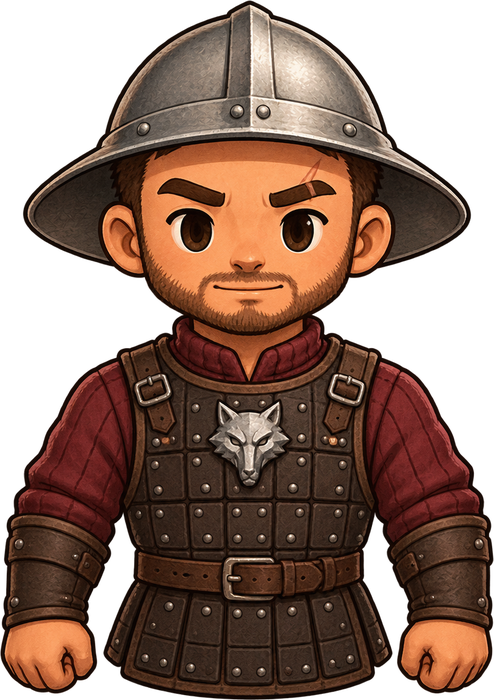
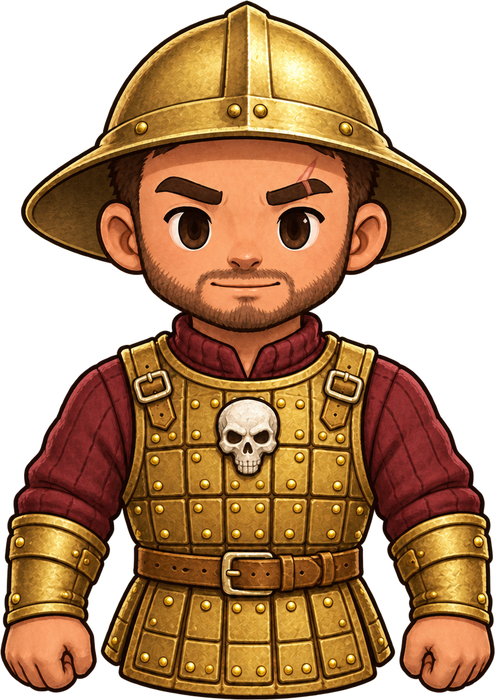
Gold sellswords with their own pike and shield, and the crossing as a sailing scene
- The Free Company's sellswords wear gold armour with a skull badge; the pike with
  its blue blade and the gold skull shield are their own pictures, held in their
  hands, and a man at his post drills a thrust now and then (mercStrike asks for
  one). The City's company is the two looks half and half.
- Sailing with Blackbeard is a 7 to 15 second scene: the Black Tide crosses the
  screen from left to right with Blackbeard and the hero behind her rail, while
  every picture of the port ahead is loaded and decoded.
- A fault part-way through a frame no longer leaves the canvas scaled for every
  frame after it.
- The City's jail: the jailer stands before his desk, painted barrels; the Royal
  Banners fly the City's crimson with the crown riding the waves.

diff --git a/game.js b/game.js
@@ -205,11 +205,12 @@ const NPC_SKINS={male:'npc_male',female:'npc_female',sebbe:'npc_sebbe',guard:'np
  mercenary:'npc_mercenary',mercenary_b:'npc_mercenary_b',merc_recruiter:'npc_merc_recruiter',
  ruler_sigvald:'npc_ruler_sigvald',ruler_roderic:'npc_ruler_roderic',ruler_aldric:'npc_ruler_aldric',ruler_isaura:'npc_ruler_isaura'};
 const npcSkinCache={};
+const NPC_ART_V=2;   /* bump when a townsfolk picture is redrawn under the same name (the sellswords went gold on 2026-09-25) */
 function npcSkinImage(skin){
  if(!skin)return null;
  if(skin in npcSkinCache)return npcSkinCache[skin];
  let im=null;
- if(NPC_SKINS[skin]){im=new Image();im.src='assets/characters/npc/'+NPC_SKINS[skin]+'.png';}
+ if(NPC_SKINS[skin]){im=new Image();im.src='assets/characters/npc/'+NPC_SKINS[skin]+'.png?v='+NPC_ART_V;}
  else{const m=npcSkinCostume(skin);if(m)im=charSprite(m[1],m[3],m[2]==='female');}
  return npcSkinCache[skin]=im;
 }
@@ -1119,24 +1120,139 @@ function renderVoyage(){
 }
 function setSail(id){
  const d=voyageList().find(d=>d.id===id);
- if(!d||d.here||d.zone<0||!gameOn||!hero||hero.dead||TideUI.isBattling())return;
+ if(!d||d.here||d.zone<0||!gameOn||!hero||hero.dead||TideUI.isBattling()||voyage)return;
  $('voyageFx').style.display='none';
  if(mp.on)mpLeave(false);
  const at=id==='home'?HOME_PORT:TownWorld.town(id).arrival;
- expeditionSpawn={zone:d.zone,x:at.x,y:at.y};
- voyageVeil(d.name);
- goToZone(d.zone);
- stageMsg('⛵ The Black Tide makes port: '+d.name,2600);
- log('⛵ Captain Blackbeard brings the Black Tide into '+d.name+'.');
+ voyage={d,at,t0:performance.now(),load:voyagePreload(d),phase:'sail',exitT:0,arriveT:0,look:mpLook(),name:S.name||'Hero'};
+ log('⛵ Captain Blackbeard casts off for '+d.name+'.');
 }
-/* a curtain of sea over the crossing: it is up before the new port is built and lifts off it */
-function voyageVeil(name){
- let v=$('voyageVeil');
- if(!v){v=document.createElement('div');v.id='voyageVeil';v.setAttribute('aria-hidden','true');document.body.appendChild(v);}
- v.textContent='⛵ The Black Tide sails for '+name+'…';
- clearTimeout(v._lift);clearTimeout(v._gone);
- v.classList.remove('lift');v.classList.add('up');void v.offsetWidth;
- v._lift=setTimeout(()=>{v.classList.add('lift');v._gone=setTimeout(()=>v.classList.remove('up','lift'),1300);},650);
+/* ⛵ The crossing (asked for 2026-09-26): not a curtain but a short scene - the Black Tide sails across the screen from
+   left to right, Captain Blackbeard and you on her deck, over a sea that runs past, while every picture of the port you are
+   sailing for is loaded AND decoded, so a slow machine arrives to a port that is ready. It lasts 7 to 15 seconds: never less
+   than 7, longer only while pictures are still coming in, and 15 at the most. The world stands still meanwhile; the new
+   port is built behind a short dark as the ship sails off the right edge, and the dark lifts off it. */
+const VOYAGE_MIN=7,VOYAGE_MAX=15,VOYAGE_EXIT=1.6,VOYAGE_DARK=.45,VOYAGE_LIFT=.7;
+let voyage=null;
+function voyagePreload(d){
+ const ims=new Set(),skin=k=>ims.add(npcSkinImage(k));
+ if(d.id==='home'){
+  for(const im of Object.values(harborImages()))ims.add(im);
+  for(const f of HarborWorld.FOLK)skin(f[1]);
+  ['harbour_master','pirate_captain','pirate','fishwife','sailor','dockhand'].forEach(skin);
+ }else{
+  for(const im of Object.values(townImages(d.id)))ims.add(im);
+  const t=TownWorld.town(d.id)||{},skins=[...(t.stands||[]).map(s=>s.skin),...(t.folk||[]).map(f=>f[1]),'pirate_captain'];
+  skins.forEach(skin);
+  if(skins.some(k=>MERC_ARMED.has(k))){ims.add(mercPikeImg);ims.add(mercShieldImg);}
+ }
+ ims.delete(null);ims.delete(undefined);
+ const list=[...ims],state={total:list.length,done:0};
+ for(const im of list){
+  const settle=()=>{state.done++;};
+  (im.decode?im.decode():new Promise(r=>{if(im.complete)r();else{im.addEventListener('load',r,{once:true});im.addEventListener('error',r,{once:true});}})).then(settle,settle);
+ }
+ return state;
+}
+function voyageTick(now){
+ const V=voyage;if(!V)return;
+ const t=(now-V.t0)/1000;
+ if(V.phase==='sail'){
+  if(t>=VOYAGE_MAX-VOYAGE_EXIT||(t>=VOYAGE_MIN-VOYAGE_EXIT&&V.load.done>=V.load.total)){V.phase='exit';V.exitT=now;}
+ }else if(V.phase==='exit'){
+  if((now-V.exitT)/1000>=VOYAGE_EXIT){
+   expeditionSpawn={zone:V.d.zone,x:V.at.x,y:V.at.y};
+   goToZone(V.d.zone);
+   V.phase='arrive';V.arriveT=performance.now();
+   stageMsg('⛵ The Black Tide makes port: '+V.d.name,2600);
+   log('⛵ Captain Blackbeard brings the Black Tide into '+V.d.name+'.');
+  }
+ }else if((now-V.arriveT)/1000>=VOYAGE_LIFT)voyage=null;
+}
+const voyagePort=nowSec=>{   /* the ship's x over the voyage: in from off the left, then drifting on while the pictures come */
+ const V=voyage,W=VW,t=(nowSec*1000-V.t0)/1000,shipW=Math.min(960,W*.69,VH*.92);   /* about half as big again as she first was (2026-09-26), flag and all on screen */
+ const e=1-(1-Math.min(1,t/1.5))**3,cruise=Math.max(W*.30,shipW*.54)+W*.10*Math.min(1,t/VOYAGE_MAX);   /* her stern on screen once she is in */
+ let x=-shipW*.6+(cruise+shipW*.6)*e;
+ if(V.phase!=='sail'){const k=Math.min(1,(nowSec*1000-V.exitT)/1000/VOYAGE_EXIT);x+=(W+shipW*.75-x)*k*k;}
+ return {x,shipW,t};
+};
+function drawVoyage(nowMs){
+ const V=voyage,W=VW,H=VH,now=nowMs/1000,{x:sx,shipW,t}=voyagePort(now),run=t*90;   /* run: how far the sea has gone by */
+ ctx.setTransform(DPR,0,0,DPR,0,0);ctx.clearRect(0,0,W,H);
+ const horizon=H*.44,waterY=H*.87;   /* low on the screen: she is big now, and her topmasts may run off the top */
+ /* the sky, a low sun ahead, clouds going by */
+ const sky=ctx.createLinearGradient(0,0,0,horizon);sky.addColorStop(0,'#27466e');sky.addColorStop(.55,'#6f9fc4');sky.addColorStop(1,'#f0d4a2');
+ ctx.fillStyle=sky;ctx.fillRect(0,0,W,horizon+2);
+ const sun=ctx.createRadialGradient(W*.8,horizon-8,0,W*.8,horizon-8,H*.36);sun.addColorStop(0,'rgba(255,236,190,.85)');sun.addColorStop(.25,'rgba(255,214,150,.25)');sun.addColorStop(1,'rgba(255,214,150,0)');
+ ctx.fillStyle=sun;ctx.fillRect(0,0,W,horizon+2);
+ for(let i=0;i<7;i++){
+  const cw=160+(i*53)%140,cx=((i*311-run*.18)%(W+cw*2)+W+cw*2)%(W+cw*2)-cw,cy=H*.08+(i*47)%(horizon*.55);
+  ctx.fillStyle='rgba(255,255,255,'+(.22+(i%3)*.08)+')';ctx.beginPath();
+  for(let k=0;k<4;k++){const ex=cx+k*cw*.22,ey=cy+(k%2)*6;ctx.moveTo(ex+cw*.2,ey);ctx.ellipse(ex,ey,cw*.2,cw*.09,0,0,Math.PI*2);}
+  ctx.fill();
+ }
+ /* far islands, sliding past slower than the sea */
+ ctx.fillStyle='#3d5f77';
+ for(let i=0;i<5;i++){
+  const iw=220+(i*97)%260,span=W+iw*2,ix=((i*457-run*.35)%span+span)%span-iw,ih=24+(i*29)%40;
+  ctx.beginPath();ctx.moveTo(ix,horizon+1);ctx.quadraticCurveTo(ix+iw*.3,horizon-ih,ix+iw*.55,horizon-ih*.6);ctx.quadraticCurveTo(ix+iw*.8,horizon-ih*.9,ix+iw,horizon+1);ctx.closePath();ctx.fill();
+ }
+ /* the sea: the Harbour's own tile running past, darker toward the viewer */
+ const sea=cityImg('harbor/sea_tile');
+ ctx.fillStyle='#16506a';ctx.fillRect(0,horizon,W,H-horizon);
+ if(sea.complete&&sea.naturalWidth){
+  ctx.save();ctx.beginPath();ctx.rect(0,horizon,W,H-horizon);ctx.clip();
+  const ts=260,ox=-((run%ts)+ts)%ts;
+  for(let y=horizon;y<H;y+=ts*.5)for(let x=ox-ts;x<W+ts;x+=ts)ctx.drawImage(sea,x,y,ts,ts*.5+1);
+  ctx.restore();
+ }
+ const deep=ctx.createLinearGradient(0,horizon,0,H);deep.addColorStop(0,'rgba(240,212,162,.30)');deep.addColorStop(.3,'rgba(10,40,60,0)');deep.addColorStop(1,'rgba(2,12,26,.45)');
+ ctx.fillStyle=deep;ctx.fillRect(0,horizon,W,H-horizon);
+ ctx.fillStyle='#fff8e8';
+ for(let i=0;i<40;i++){const gx=((i*173-run*1.1)%(W+40)+W+40)%(W+40)-20,gy=horizon+8+((i*67)%Math.max(1,H-horizon-16)),a=Math.sin(now*2.2+i*1.7);if(a<.55)continue;ctx.globalAlpha=(a-.55)*1.6;ctx.fillRect(gx,gy,10+(i%3)*6,1.6);}
+ ctx.globalAlpha=1;
+ /* the Black Tide, her wake, and the two of you on her deck */
+ const ship=cityImg('harbor/ship_galleon'),shipH=ship.naturalWidth?shipW*ship.naturalHeight/ship.naturalWidth:shipW*.93;
+ const bob=Math.sin(now*1.5)*4,tilt=Math.sin(now*1.1)*.012,wy=waterY+bob;
+ ctx.strokeStyle='rgba(236,248,255,.7)';ctx.lineWidth=4;ctx.lineCap='round';
+ for(let k=0;k<6;k++){const wx=sx-shipW*.40-k*38-((now*90)%38);ctx.globalAlpha=.8-k*.1;ctx.beginPath();ctx.moveTo(wx,wy-2+k*1.5);ctx.quadraticCurveTo(wx-20,wy+6+k*2,wx-40,wy+2+k*2);ctx.stroke();}
+ ctx.globalAlpha=1;
+ ctx.save();ctx.translate(sx,wy);ctx.rotate(tilt);
+ if(ship.complete&&ship.naturalWidth)ctx.drawImage(ship,-shipW/2,-shipH,shipW,shipH);
+ else{ctx.fillStyle='#3a2616';ctx.fillRect(-shipW/2,-shipH*.25,shipW,shipH*.25);}
+ const deckLine=-shipH*.15,k=shipW/430;   /* the deck behind the waist rail (its cap at -.195 of her height); the masts stand at -.22, -.085 and +.175 of her width */
+ const bb=characterBootFrame(npcSkinRace('pirate_captain'),false,bootImg,7),soleB=(bb&&bb.groundY||13)*1.3;
+ const hc=paintedCharacterFrame(V.look.race||'human',V.look.cls||'warrior',!!V.look.fem,lookOutfit(V.look)),soleH=hc?hc.groundY:8;
+ ctx.save();ctx.translate(-shipW*.14,deckLine-soleB*k);ctx.scale(k,k);
+ drawNpc({x:0,y:0,skin:'pirate_captain',race:'human',cls:'warrior',name:'Captain Blackbeard',game:'captain',fx:1,big:1.3,moving:false,walk:0});
+ ctx.restore();
+ ctx.save();ctx.translate(shipW*.10,deckLine-soleH*k);ctx.scale(k,k);
+ drawHeroLike(0,0,V.look,1,{moving:false,facing:1},V.name);
+ ctx.restore();
+ /* and her hull again, up to the rail cap, over their feet and legs: they stand behind the rail, the rigging behind them */
+ if(ship.complete&&ship.naturalWidth){ctx.save();ctx.beginPath();ctx.rect(-shipW/2,-shipH*.203,shipW,shipH*.203);ctx.clip();ctx.drawImage(ship,-shipW/2,-shipH,shipW,shipH);ctx.restore();}
+ ctx.restore();
+ ctx.strokeStyle='rgba(236,248,255,.45)';ctx.lineWidth=2.5;
+ ctx.beginPath();ctx.ellipse(sx-shipW*.058,wy-1,shipW*.35,4,0,0,Math.PI);ctx.stroke();
+ /* gulls wheeling over her */
+ const gull=cityImg('harbor/seagull');
+ for(let i=0;i<3;i++){
+  const a=now*(.7+i*.2)+i*2.1,gx=sx+Math.cos(a)*shipW*(.35+i*.1),gy=wy-shipH*(.80+i*.06)+Math.sin(a*1.3)*20,gw=34-i*6;
+  if(gull.complete&&gull.naturalWidth){ctx.save();ctx.translate(gx,gy);ctx.scale(Math.cos(a)>0?-1:1,1);ctx.drawImage(gull,-gw/2,-gw*.4,gw,gw*gull.naturalHeight/gull.naturalWidth);ctx.restore();}
+ }
+ /* where she is bound, and how much of it is ready */
+ const p=V.load.total?Math.min(1,V.load.done/V.load.total):1,bw=Math.min(360,W*.5),bx=W-bw-80,by=64;   /* top right, over open sky: the ship fills the bottom of the screen and her flag the top left */
+ ctx.fillStyle='rgba(6,14,22,.55)';ctx.fillRect(bx-14,by-34,bw+28,58);
+ ctx.font='700 18px '+getComputedStyle(document.body).fontFamily;ctx.textAlign='center';
+ ctx.fillStyle='rgba(0,0,0,.6)';ctx.fillText(V.d.icon+' '+V.d.name,bx+bw/2+1,by-11);ctx.fillStyle='#f3e4c9';ctx.fillText(V.d.icon+' '+V.d.name,bx+bw/2,by-12);
+ ctx.fillStyle='rgba(255,255,255,.15)';ctx.fillRect(bx,by,bw,6);ctx.fillStyle='#e8c66a';ctx.fillRect(bx,by,bw*p,6);
+ /* the dark the new port is built behind */
+ if(V.phase==='exit'){const d=Math.max(0,((nowMs-V.exitT)/1000-(VOYAGE_EXIT-VOYAGE_DARK))/VOYAGE_DARK);if(d>0){ctx.fillStyle='rgba(4,8,12,'+Math.min(1,d).toFixed(3)+')';ctx.fillRect(0,0,W,H);}}
+}
+function voyageLift(nowMs){   /* the dark lifting off the new port */
+ const V=voyage;if(!V||V.phase!=='arrive')return;
+ const a=1-Math.min(1,(nowMs-V.arriveT)/1000/VOYAGE_LIFT);
+ if(a>0){ctx.fillStyle='rgba(4,8,12,'+a.toFixed(3)+')';ctx.fillRect(0,0,VW,VH);}
 }
 /* the towns talk like the quay does: bubbles run their time, and now and then somebody near you says his piece */
 const TOWN_CRIES={...HARBOR_CRIES,
@@ -7473,7 +7589,7 @@ cv.addEventListener('contextmenu',()=>{
  if(held){sfx.warn();stageMsg('✋ Put down '+held,1100);}
 });
 cv.addEventListener('pointerdown',e=>{
- if(!gameOn||gamePaused||hero.dead||pinching||coronation||execution)return; /* 👑⚖ a scene plays itself out - no clicks land */
+ if(!gameOn||gamePaused||hero.dead||pinching||coronation||execution||voyage)return; /* 👑⚖⛵ a scene plays itself out - no clicks land */
  if(e.button===2)return; /* the right button is the deselect gesture - contextmenu owns it */
  if($('p-tides')?.contains(document.activeElement))document.activeElement.blur();
  const r=cv.getBoundingClientRect();
@@ -10431,6 +10547,38 @@ function drawHero(){
  }
  ctx.restore();
 }
+/* ⚔ The Free Company's arms (2026-09-25): the gold sellswords carry a pike with a blue blade and a gold skull shield,
+   drawn as their own pictures in the sellsword's hands - not painted on him - so that he can strike with the pike.
+   Standing still, each one drills a thrust now and then, out of step with the next; mercStrike(n) asks for one now. */
+const MERC_ARMED=new Set(['mercenary','mercenary_b']);
+const mercPikeImg=new Image();mercPikeImg.src='assets/weapons/merc_pike.png?v=1';
+const mercShieldImg=new Image();mercShieldImg.src='assets/weapons/merc_shield.png?v=1';
+const MERC_THRUST_MS=750;
+function mercPhase(n,now){   /* 0 at rest; through a thrust, 0 to 1: lower the pike, jab, raise it again */
+ if(n.moving||n.dead)return 0;
+ if(n.strikeT&&now>=n.strikeT&&now<n.strikeT+MERC_THRUST_MS)return (now-n.strikeT)/MERC_THRUST_MS;
+ let h=7;for(const c of String(n.name||''))h=(h*31+c.charCodeAt(0))|0;h=Math.abs(h);
+ const period=7000+h%4000,t=(now+h*13)%period;
+ return t<MERC_THRUST_MS?t/MERC_THRUST_MS:0;
+}
+function mercPose(p){   /* how far the pike is lowered (0 upright - 1 level) and how far it is driven through the hand */
+ return {lower:Math.max(0,Math.min(1,p/.3,(1-p)/.3)),jab:p>.3&&p<.7?Math.sin((p-.3)/.4*Math.PI):0};
+}
+function mercStrike(n){n.strikeT=performance.now();}
+function drawMercArms(n,body,by,now){   /* in the sellsword's own frame: the art looks left, so forward is -x */
+ const ok=im=>im.complete&&im.naturalWidth>0;
+ const {lower,jab}=mercPose(mercPhase(n,now)),vw=body.visibleWidth,bottom=body.bodyBottom,tall=bottom-body.headY;
+ if(ok(mercShieldImg)){   /* on the other hand's fist: its foot at the hem, the fist behind it, the badge left in sight */
+  const D=tall*.42,h=D*mercShieldImg.naturalHeight/mercShieldImg.naturalWidth;
+  ctx.drawImage(mip(mercShieldImg,D),vw*.40-3*lower-D/2,bottom-9-h/2+by,D,h);
+ }
+ if(ok(mercPikeImg)){   /* gripped in the forward fist; a thrust levels it and drives it through the hand, never out of it */
+  const L=tall*1.55,w=L*mercPikeImg.naturalWidth/mercPikeImg.naturalHeight;
+  ctx.save();ctx.translate(-vw*.40,bottom-3.5+by);ctx.rotate(-1.35*lower);ctx.translate(0,-9*jab);
+  ctx.drawImage(mip(mercPikeImg,w),-w/2,-L*.84,w,L);
+  ctx.restore();
+ }
+}
 function drawNpc(n){
  const now=performance.now();
  const by=n.hop?-Math.abs(Math.sin(now/1000*n.hop.rate+n.hop.phase))*n.hop.h:n.moving?Math.sin(n.walk*7)*1.8:Math.sin(now/600+n.x)*0.8; /* 👑 hop: a townsman bouncing at the coronation */
@@ -10447,6 +10595,7 @@ function drawNpc(n){
   if(n.fx>0)ctx.scale(-1,1); /* art faces left natively - mirror when walking right */
   ctx.rotate(by*0.02);
   ctx.drawImage(mip(pImg,body.width*size),body.x,body.y+by,body.width,body.height);
+  if(MERC_ARMED.has(n.skin))drawMercArms(n,body,by,now);
   ctx.restore();
  }else{
   feet({walk:n.walk*1.8},n.moving?1:0.15);
@@ -10455,7 +10604,7 @@ function drawNpc(n){
  ctx.restore();
  if(n.protest&&n.protest.sign)drawProtestSign(n,body,by,size);
  if(n.guildRole!=='member'&&!n.protest&&!n.brawl&&!n.prisoner&&!(n.nameNear&&(!hero||Math.hypot(hero.x-n.x,hero.y-n.y)>n.nameNear))){   /* ⚔ a sellsword's name only when you are close */ /* ✊ a marching block wears its placards, not two dozen overlapping names; ⛓ a prisoner's name hangs on his grille */
-  const ny=((body?body.headY:-37)-3+by)*size;
+  const ny=((body?body.headY:-37)-3+by-(body&&MERC_ARMED.has(n.skin)?17:0))*size;   /* ⚔ over a sellsword's pike blade, not through it */
   ctx.font='700 '+(n.game?11:10)+'px '+getComputedStyle(document.body).fontFamily;ctx.textAlign='center';
   ctx.fillStyle='rgba(0,0,0,0.6)';ctx.fillText(n.name,1,ny+1);
   ctx.fillStyle=n.game||n.royal?'#ffd76a':n.watch||n.guard||n.extraGuard?'#bcd0ee':n.protest?'#ffb3a3':'#cfe6c2';   /* the ones with something to sell stand out; the watch and the guard in steel; the crowd flushed */
@@ -14534,7 +14683,7 @@ function cityApplyMercs(){
  const slots=mercSlotList();world.mercs=[];
  for(let i=0;i<n&&i<slots.length;i++){
   const {beat,k}=slots[i];
-  const m={name:'Sellsword '+MERC_NAMES[i%MERC_NAMES.length],skin:i%3===2?'mercenary_b':'mercenary',race:'human',cls:'warrior',female:false,big:1.08,
+  const m={name:'Sellsword '+MERC_NAMES[i%MERC_NAMES.length],skin:i%2?'mercenary_b':'mercenary',race:'human',cls:'warrior',female:false,big:1.08,
    guard:true,merc:true,nameNear:320,beat:beat.id,x:0,y:0,fx:1,walk:i*.7,moving:false,i:0,pts:[]};
   if(beat.posts){const [px,py]=beat.posts[k];Object.assign(m,{x:px,y:py,fx:k%2?-1:1,post:true});}
   else{
@@ -14729,6 +14878,7 @@ function cancelHallScenes(){
 }
 /* the map, Home and the hero switch wait while a scene plays: it walks the hero, and it writes the books */
 function sceneHoldsTravel(){
+ if(voyage){stageMsg('Not now - the Black Tide is at sea.',1600);sfx.warn();return true;}   /* ⛵ nobody steps off a ship halfway across */
  if(!coronation&&!execution)return false;
  stageMsg('Not now - the whole court is watching.',1600);sfx.warn();
  return true;
@@ -17817,10 +17967,14 @@ function frame(t){
  }
  const guideOpen=HeroGuide.isOpen();
  if(gameOn&&!gamePaused&&!guideOpen){
-  update(dt);renderVitals(dt);
-  saveT+=dt;if(saveT>12){saveT=0;save();}
-  draw();
-  TideUI.afterDraw();
+  if(voyage)voyageTick(t);   /* ⛵ the crossing plays instead of the world while the Black Tide sails */
+  if(voyage&&voyage.phase!=='arrive')drawVoyage(t);
+  else{
+   update(dt);renderVitals(dt);
+   saveT+=dt;if(saveT>12){saveT=0;save();}
+   draw();voyageLift(t);
+   TideUI.afterDraw();
+  }
  }else if(gameOn&&(gamePaused||guideOpen)){
   if(guideOpen){padNow=padStick();padTick(dt);}
   else{padNow=null;padTick(dt);} /* paused: the pad can still close a box on screen and open the settings - Start used to do nothing */
@@ -17833,9 +17987,10 @@ function frame(t){
   }
  }
  {const z=ZONES[S&&S.zone];   /* 🗺 the City, the Wasteland, the Harbour and the ports of call (not the palace inside one) */
-  cityMinimap.update(world,hero,gameOn&&S&&!z?.dungeon&&!!(z?.city||z?.wasteland||z?.harbor||(z?.town&&!z?.interior)),t);}
+  cityMinimap.update(world,hero,gameOn&&S&&!(voyage&&voyage.phase!=='arrive')&&!z?.dungeon&&!!(z?.city||z?.wasteland||z?.harbor||(z?.town&&!z?.interior)),t);}
  }catch(e){
   frame.faults=(frame.faults|0)+1;
+  try{ctx.setTransform(DPR,0,0,DPR,0,0);}catch(_){}   /* a throw between save() and restore() would otherwise leave every later frame scaled */
   if(frame.faults<=20)try{console.error('frame: '+String((e&&e.stack)||e));}catch(_){}
  }
 }

diff --git a/assets/characters/layout.js b/assets/characters/layout.js
@@ -75,8 +75,8 @@ const CHARACTER_BOUNDS={
  "npc/npc_silver_guard":[505,700,0,0,504,700],
  "npc/npc_raven_soldier":[515,700,0,0,514,699],
  "npc/npc_foundry_worker":[530,700,2,0,526,700],
- "npc/npc_mercenary":[494,700,1,1,492,699],
- "npc/npc_mercenary_b":[537,700,1,1,535,699],
+ "npc/npc_mercenary":[495,700,1,1,494,699],
+ "npc/npc_mercenary_b":[542,700,1,1,541,698],
  "npc/npc_spice_merchant":[528,700,2,0,526,700],
  "npc/npc_merc_recruiter":[519,700,1,2,518,697],
  "npc/npc_ruler_sigvald":[533,700,0,1,532,698],

diff --git a/index.html b/index.html
@@ -933,7 +933,7 @@
 <script src="assets/ui/hero-guide.js?v=2"></script>
 <script src="assets/cloud/firestore-rest.js?v=1"></script>
 <script src="assets/boss/odin-arena.js?v=1"></script>
-<script src="game.js?v=171"></script>
+<script src="game.js?v=175"></script>
 <script src="assets/ui/crafting.js?v=3"></script>
 </body>
 </html>
